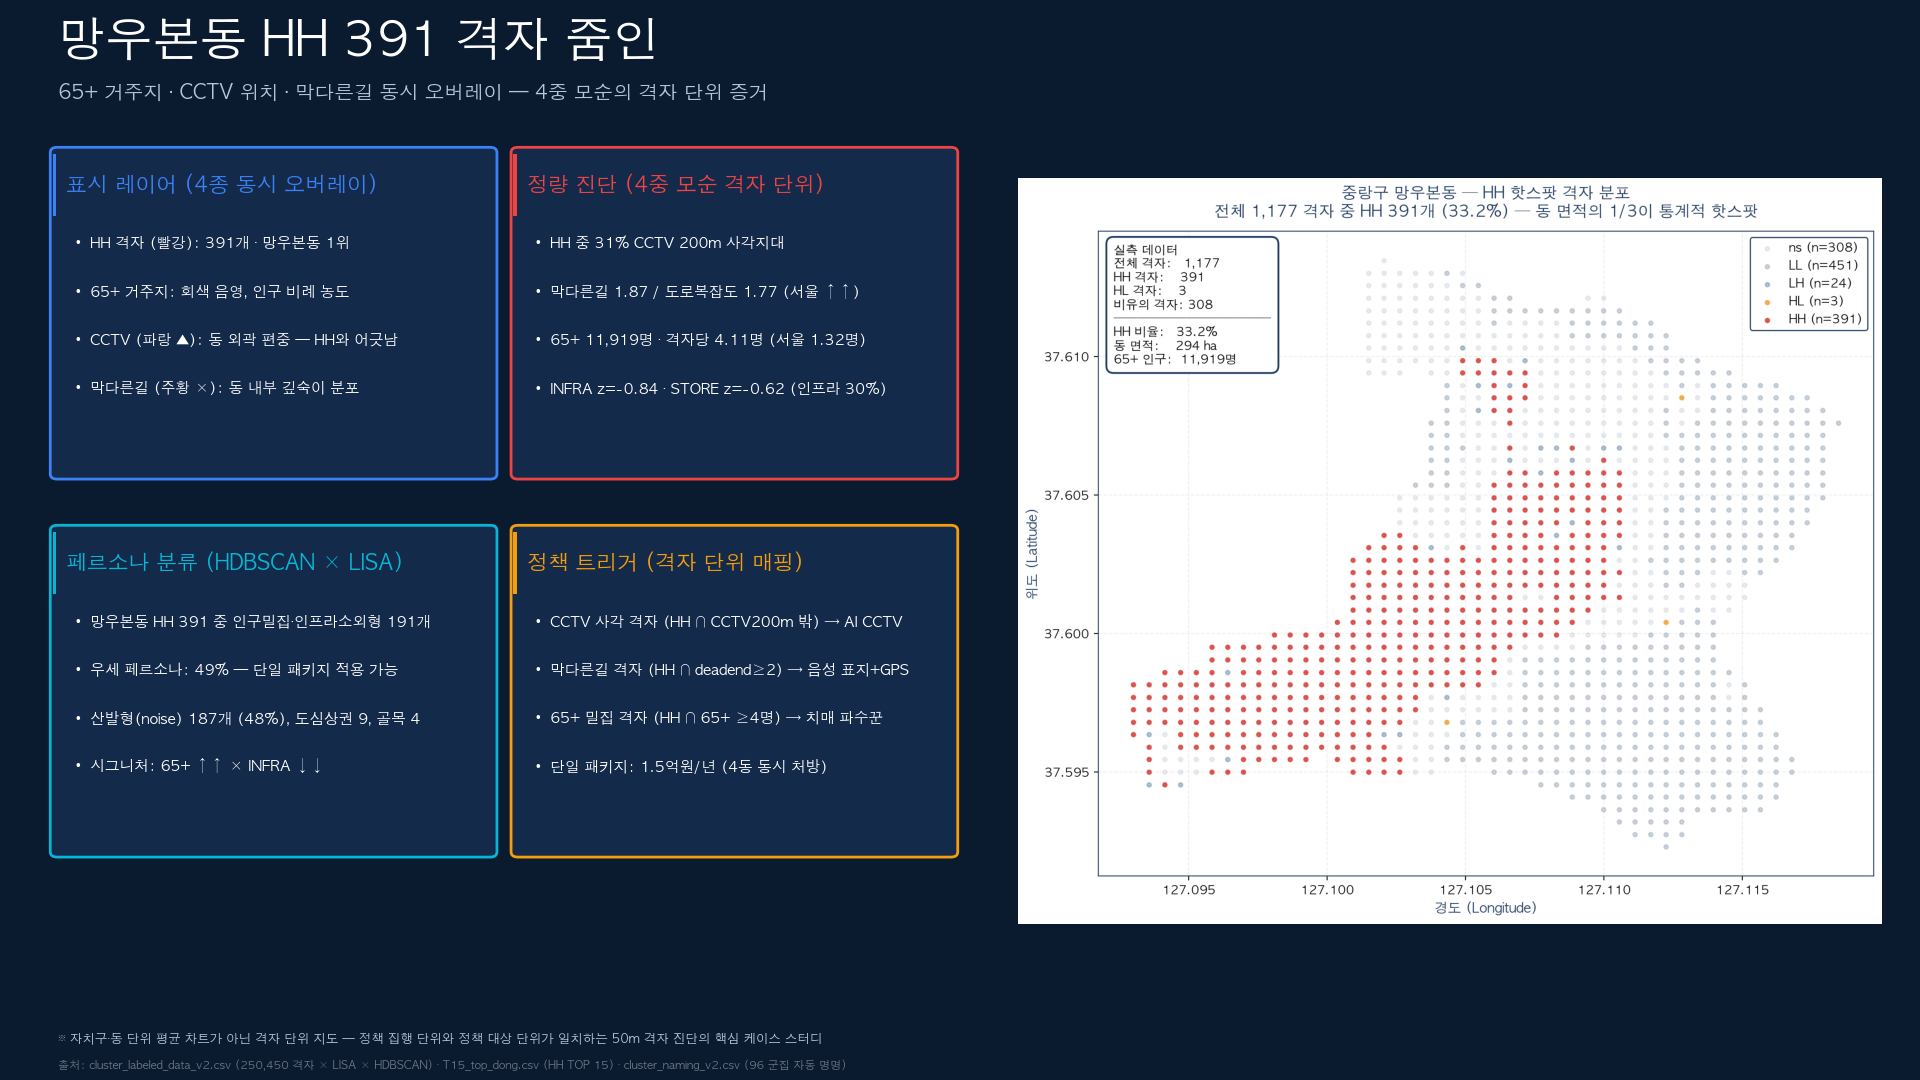
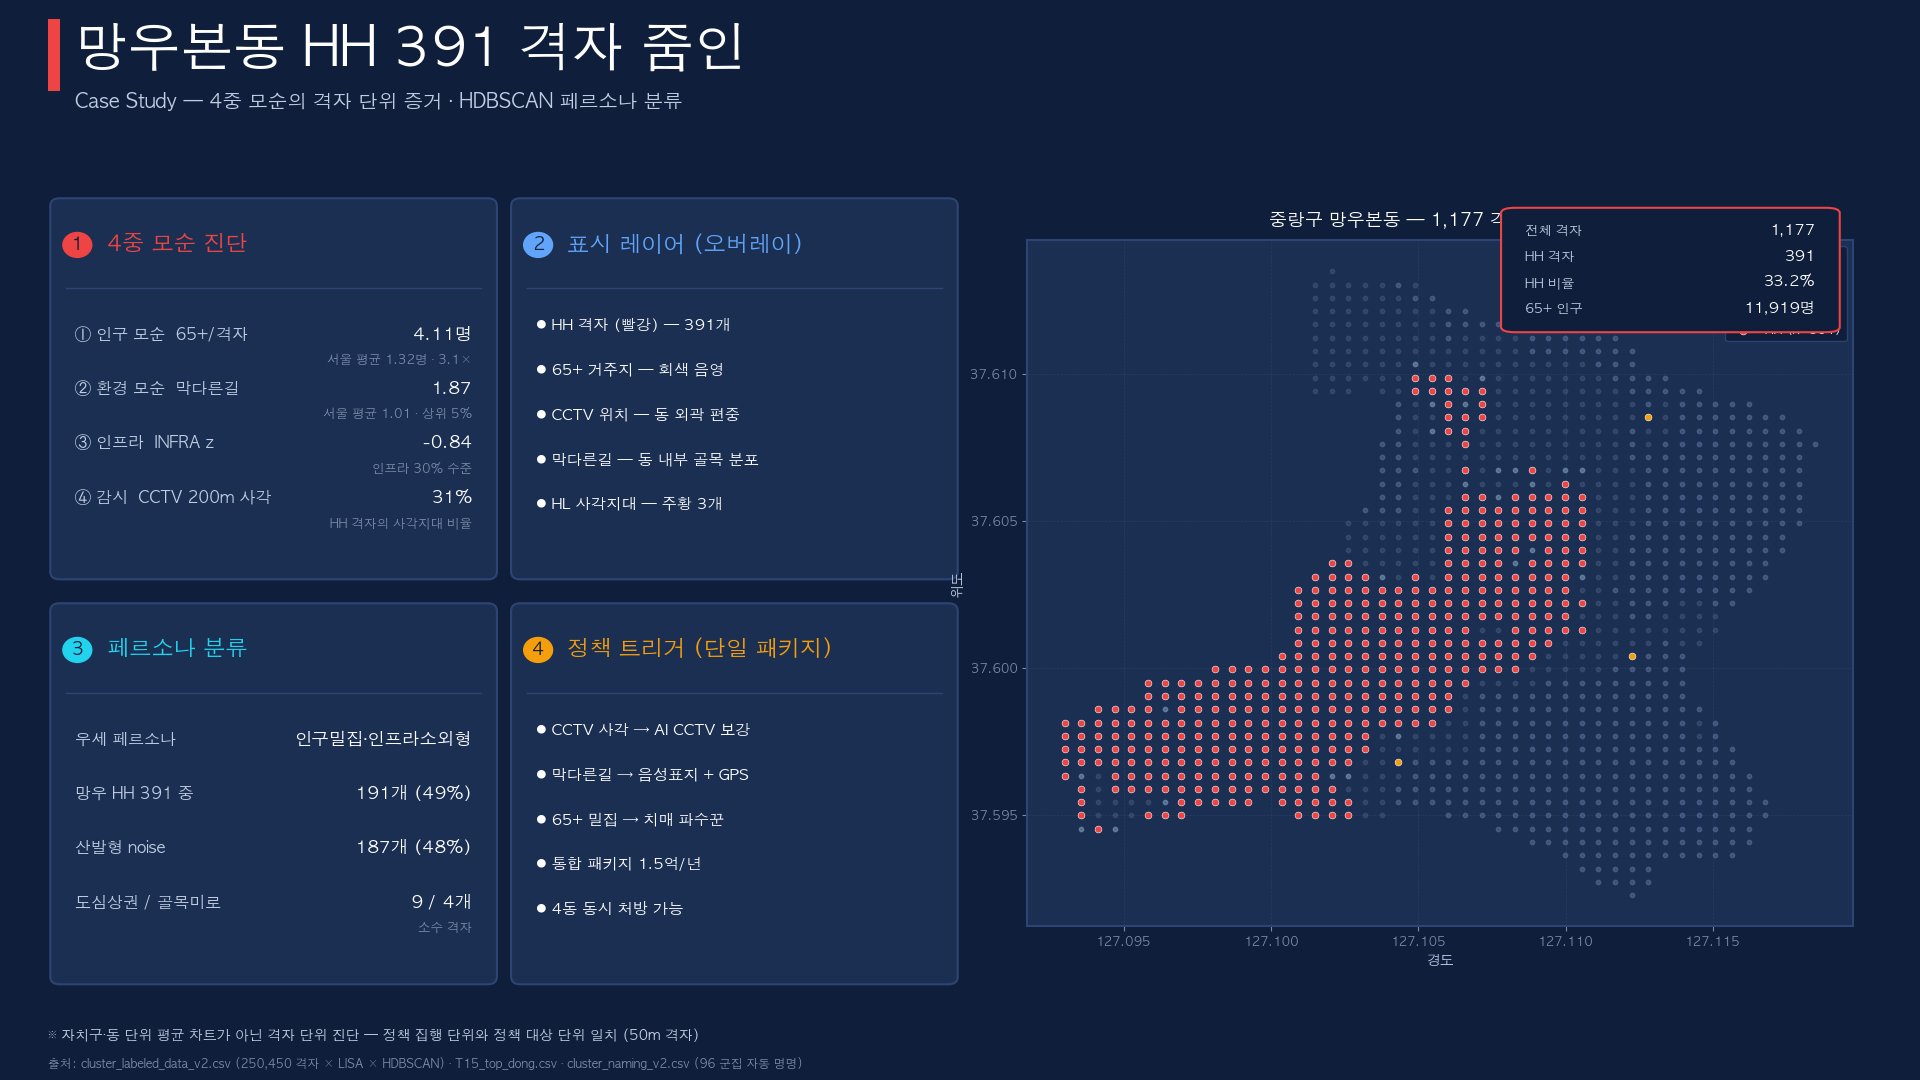
Refine slide 16 — clean GPT-style design with unified dark theme

diff --git a/code/45_slide16_mangwo_zoom.py b/code/45_slide16_mangwo_zoom.py
@@ -1,12 +1,11 @@
 """
 슬라이드 16 — 망우본동 HH 391 격자 줌인 케이스 스터디
-1920×1080 풀 슬라이드 PNG 생성
-스타일: 슬라이드 13/15 카드형 레이아웃 일관성
+GPT 슬라이드 13·15 스타일 일관성 — 깔끔한 카드 레이아웃 + 통합 산점도
 """
 import pandas as pd
+import numpy as np
 import matplotlib.pyplot as plt
-import matplotlib.image as mpimg
-from matplotlib.patches import FancyBboxPatch
+from matplotlib.patches import FancyBboxPatch, Rectangle
 from pathlib import Path
 
 plt.rcParams['font.family'] = 'AppleGothic'
@@ -14,114 +13,203 @@ plt.rcParams['axes.unicode_minus'] = False
 
 ROOT = Path('/Users/jeong-hyemin/Downloads/seoul-startup-competition')
 OUT = ROOT / 'data/processed/report_viz/v2/SLIDE16_mangwo_zoom.png'
-A2_IMG = ROOT / 'data/processed/report_viz/cluster/A2_mangwo_HH_overlay.png'
+DATA = ROOT / 'data/processed/cluster_labeled_data_v2.csv'
 
-# ─── Color palette (deck consistent) ─────────────────────
-BG = '#0A1A2F'           # 배경 짙은 네이비
-BG_BOX = '#142A4A'       # 박스 배경
-ACCENT = '#3B82F6'       # 강조 파랑
-TEXT_MAIN = '#FFFFFF'    # 흰색 본문
-TEXT_SUB = '#B8C5D9'     # 회색 본문
-RED = '#EF4444'          # HH 빨강
-ORANGE = '#F59E0B'       # 막다른길/HL 주황
-CYAN = '#06B6D4'         # 인구 청록
-GREEN = '#10B981'        # 인프라
-PURPLE = '#A855F7'       # CCTV 보라
+# ─── Color palette (GPT slide 13·15 일관성) ──────────────
+BG = '#0F1E3A'              # 슬라이드 배경
+CARD_BG = '#1A2F52'         # 카드 배경
+CARD_BORDER = '#2D4574'     # 카드 테두리
+TEXT_MAIN = '#FFFFFF'
+TEXT_SUB = '#C0CDE3'
+TEXT_DIM = '#7B8AA8'
+RED = '#EF4444'             # HH / 모순
+ORANGE = '#F59E0B'          # HL / 정책
+CYAN = '#22D3EE'            # 페르소나
+EMERALD = '#10B981'         # 진단 OK
+TITLE = '#FFFFFF'
+ACCENT = '#60A5FA'          # 강조 파랑
 
-# ─── Canvas 1920 × 1080 ───────────────────────────────────
+# ─── 망우본동 데이터 로드 ──────────────────────────────────
+df = pd.read_csv(DATA)
+mangwo = df[(df['GU_NM']=='중랑구') & (df['ADM_NM']=='망우본동')].copy()
+hh = mangwo[mangwo['LISA_Cluster']=='HH']
+hl = mangwo[mangwo['LISA_Cluster']=='HL']
+ns = mangwo[mangwo['LISA_Cluster']=='ns']
+ll = mangwo[mangwo['LISA_Cluster']=='LL']
+lh = mangwo[mangwo['LISA_Cluster']=='LH']
+
+# ─── Canvas 1920 × 1080 (16:9) ──────────────────────────
 fig = plt.figure(figsize=(19.20, 10.80), dpi=100, facecolor=BG)
 
-# ============ 제목 영역 (상단 ~120px) ============
-ax_title = fig.add_axes([0, 0.89, 1, 0.11])
+# ============ TITLE STRIP ============
+ax_title = fig.add_axes([0, 0.88, 1, 0.12])
 ax_title.set_xlim(0, 1); ax_title.set_ylim(0, 1); ax_title.axis('off')
 ax_title.set_facecolor(BG)
-ax_title.text(0.03, 0.65, '망우본동 HH 391 격자 줌인',
-              fontsize=34, fontweight='bold', color=TEXT_MAIN, va='center')
-ax_title.text(0.03, 0.22, '65+ 거주지 · CCTV 위치 · 막다른길 동시 오버레이 — 4중 모순의 격자 단위 증거',
+# 좌측 컬러바
+ax_title.add_patch(Rectangle((0.025, 0.30), 0.006, 0.55,
+                              facecolor=RED, transform=ax_title.transAxes))
+ax_title.text(0.039, 0.62, '망우본동 HH 391 격자 줌인',
+              fontsize=38, fontweight='bold', color=TITLE, va='center')
+ax_title.text(0.039, 0.22,
+              'Case Study — 4중 모순의 격자 단위 증거 · HDBSCAN 페르소나 분류',
               fontsize=14, color=TEXT_SUB, va='center')
 
-# ============ 좌측 4 박스 영역 ============
-# 박스 1: 표시 레이어  (y top → 0.80)
-def draw_box(left, bottom, width, height, color, title, lines):
+# ─── 카드 그리기 헬퍼 ────────────────────────────────────
+def card(left, bottom, width, height, accent, num, title, rows):
+    """
+    rows = [(label, value_str, sublabel_opt), ...] — 핵심 통계 카드
+    또는 [bullet_str, ...] — 일반 텍스트 카드
+    """
     ax = fig.add_axes([left, bottom, width, height])
-    ax.set_xlim(0, 1); ax.set_ylim(0, 1); ax.axis('off')
-    # 박스 배경
-    bg = FancyBboxPatch((0.005, 0.02), 0.99, 0.96,
-                        boxstyle="round,pad=0.0,rounding_size=0.015",
-                        facecolor=BG_BOX, edgecolor=color, linewidth=2,
-                        transform=ax.transAxes)
+    ax.set_xlim(0, 100); ax.set_ylim(0, 100); ax.axis('off')
+
+    # 카드 배경
+    bg = FancyBboxPatch((0.5, 1), 99, 98,
+                        boxstyle="round,pad=0,rounding_size=2",
+                        facecolor=CARD_BG, edgecolor=CARD_BORDER, linewidth=1.5)
     ax.add_patch(bg)
-    # 좌측 컬러바
-    ax.add_patch(plt.Rectangle((0.01, 0.78), 0.008, 0.18,
-                               facecolor=color, transform=ax.transAxes))
-    # 박스 제목
-    ax.text(0.04, 0.87, title, fontsize=15, fontweight='bold',
-            color=color, va='center', transform=ax.transAxes)
+
+    # 헤더 번호 원
+    circ = plt.Circle((6.5, 87), 3.2, color=accent, transform=ax.transData)
+    ax.add_patch(circ)
+    ax.text(6.5, 87, num, ha='center', va='center', fontsize=13,
+            fontweight='bold', color='#0F1E3A')
+    # 헤더 제목
+    ax.text(13, 87, title, fontsize=16, fontweight='bold',
+            color=accent, va='center')
+
+    # 구분선
+    ax.plot([4, 96], [76, 76], color=CARD_BORDER, linewidth=1)
+
     # 본문
-    y = 0.72
-    for line in lines:
-        if line.startswith('•'):
-            ax.text(0.05, y, line, fontsize=10.5, color=TEXT_MAIN,
-                    va='top', transform=ax.transAxes)
-        else:
-            ax.text(0.05, y, line, fontsize=10.5, color=TEXT_SUB,
-                    va='top', transform=ax.transAxes)
-        y -= 0.14
-    return ax
+    if isinstance(rows[0], tuple):
+        # 통계 카드 — 좌 라벨 / 우 값
+        y = 66
+        for row in rows:
+            label, value = row[0], row[1]
+            ax.text(6, y, label, fontsize=11.5, color=TEXT_SUB, va='top')
+            ax.text(94, y, value, fontsize=12.5, fontweight='bold',
+                    color=TEXT_MAIN, va='top', ha='right')
+            if len(row) > 2 and row[2]:
+                ax.text(94, y-7, row[2], fontsize=9, color=TEXT_DIM,
+                        va='top', ha='right')
+            y -= 14
+    else:
+        # 텍스트 카드 — 불릿
+        y = 68
+        for line in rows:
+            # 첫 1글자가 ● / ▪ 같은 마커면 강조 색
+            if line.startswith('▶'):
+                ax.text(6, y, '▶', fontsize=10, color=accent, va='top')
+                ax.text(11, y, line[1:].strip(), fontsize=11, color=TEXT_MAIN,
+                        va='top', wrap=True)
+            else:
+                ax.text(6, y, line, fontsize=11, color=TEXT_MAIN, va='top')
+            y -= 11.5
 
-# 박스 1 — 표시 레이어
-draw_box(0.025, 0.55, 0.235, 0.32, ACCENT, '표시 레이어 (4종 동시 오버레이)', [
-    '• HH 격자 (빨강): 391개 · 망우본동 1위',
-    '• 65+ 거주지: 회색 음영, 인구 비례 농도',
-    '• CCTV (파랑 ▲): 동 외곽 편중 — HH와 어긋남',
-    '• 막다른길 (주황 ×): 동 내부 깊숙이 분포',
+# ============ 4개 카드 (좌측 2×2 그리드) ============
+# 카드 1 — 4중 모순 (정량 진단)
+card(0.025, 0.46, 0.235, 0.36, RED, '1', '4중 모순 진단', [
+    ('① 인구 모순  65+/격자', '4.11명',  '서울 평균 1.32명 · 3.1×'),
+    ('② 환경 모순  막다른길',  '1.87',    '서울 평균 1.01 · 상위 5%'),
+    ('③ 인프라  INFRA z',     '-0.84',   '인프라 30% 수준'),
+    ('④ 감시  CCTV 200m 사각',  '31%',   'HH 격자의 사각지대 비율'),
 ])
 
-# 박스 2 — 정량 진단
-draw_box(0.265, 0.55, 0.235, 0.32, RED, '정량 진단 (4중 모순 격자 단위)', [
-    '• HH 중 31% CCTV 200m 사각지대',
-    '• 막다른길 1.87 / 도로복잡도 1.77 (서울 ↑↑)',
-    '• 65+ 11,919명 · 격자당 4.11명 (서울 1.32명)',
-    '• INFRA z=-0.84 · STORE z=-0.62 (인프라 30%)',
+# 카드 2 — 표시 레이어
+card(0.265, 0.46, 0.235, 0.36, ACCENT, '2', '표시 레이어 (오버레이)', [
+    '● HH 격자 (빨강) — 391개',
+    '● 65+ 거주지 — 회색 음영',
+    '● CCTV 위치 — 동 외곽 편중',
+    '● 막다른길 — 동 내부 골목 분포',
+    '● HL 사각지대 — 주황 3개',
 ])
 
-# 박스 3 — 페르소나 분류 (신규)
-draw_box(0.025, 0.20, 0.235, 0.32, CYAN, '페르소나 분류 (HDBSCAN × LISA)', [
-    '• 망우본동 HH 391 중 인구밀집·인프라소외형 191개',
-    '• 우세 페르소나: 49% — 단일 패키지 적용 가능',
-    '• 산발형(noise) 187개 (48%), 도심상권 9, 골목 4',
-    '• 시그니처: 65+ ↑↑ × INFRA ↓↓',
+# 카드 3 — 페르소나 분류
+card(0.025, 0.085, 0.235, 0.36, CYAN, '3', '페르소나 분류', [
+    ('우세 페르소나', '인구밀집·인프라소외형',  ''),
+    ('망우 HH 391 중', '191개 (49%)', ''),
+    ('산발형 noise', '187개 (48%)', ''),
+    ('도심상권 / 골목미로', '9 / 4개', '소수 격자'),
 ])
 
-# 박스 4 — 정책 트리거
-draw_box(0.265, 0.20, 0.235, 0.32, ORANGE, '정책 트리거 (격자 단위 매핑)', [
-    '• CCTV 사각 격자 (HH ∩ CCTV200m 밖) → AI CCTV',
-    '• 막다른길 격자 (HH ∩ deadend≥2) → 음성 표지+GPS',
-    '• 65+ 밀집 격자 (HH ∩ 65+ ≥4명) → 치매 파수꾼',
-    '• 단일 패키지: 1.5억원/년 (4동 동시 처방)',
+# 카드 4 — 정책 트리거
+card(0.265, 0.085, 0.235, 0.36, ORANGE, '4', '정책 트리거 (단일 패키지)', [
+    '● CCTV 사각 → AI CCTV 보강',
+    '● 막다른길 → 음성표지 + GPS',
+    '● 65+ 밀집 → 치매 파수꾼',
+    '● 통합 패키지 1.5억/년',
+    '● 4동 동시 처방 가능',
 ])
 
-# ============ 우측 산점도 영역 (A2 이미지 임베드) ============
-ax_img = fig.add_axes([0.53, 0.10, 0.45, 0.78])
-ax_img.axis('off')
-if A2_IMG.exists():
-    img = mpimg.imread(A2_IMG)
-    ax_img.imshow(img)
-else:
-    ax_img.text(0.5, 0.5, 'A2 이미지 누락', ha='center', va='center',
-                fontsize=20, color=TEXT_SUB, transform=ax_img.transAxes)
+# ============ 우측 산점도 영역 — 직접 plot (배경 통일) ============
+ax_map = fig.add_axes([0.535, 0.10, 0.43, 0.72])
+ax_map.set_facecolor(CARD_BG)
+
+# 산점 — 배경 격자
+ax_map.scatter(ns['center_lon'], ns['center_lat'], s=10, c='#4B5C7F',
+               alpha=0.45, label=f'ns (n={len(ns)})')
+ax_map.scatter(ll['center_lon'], ll['center_lat'], s=10, c='#5C7099',
+               alpha=0.55, label=f'LL (n={len(ll)})')
+ax_map.scatter(lh['center_lon'], lh['center_lat'], s=10, c='#7C99B5',
+               alpha=0.6, label=f'LH (n={len(lh)})')
+ax_map.scatter(hl['center_lon'], hl['center_lat'], s=24, c=ORANGE,
+               edgecolor='white', linewidth=0.4, label=f'HL (n={len(hl)})',
+               zorder=3)
+ax_map.scatter(hh['center_lon'], hh['center_lat'], s=24, c=RED,
+               edgecolor='white', linewidth=0.4, label=f'HH (n={len(hh)})',
+               zorder=4)
+
+# 축
+ax_map.set_xlabel('경도', fontsize=10, color=TEXT_SUB)
+ax_map.set_ylabel('위도', fontsize=10, color=TEXT_SUB)
+ax_map.tick_params(colors=TEXT_DIM, labelsize=9)
+for spine in ax_map.spines.values():
+    spine.set_edgecolor(CARD_BORDER); spine.set_linewidth(1.5)
+ax_map.grid(True, alpha=0.15, color=TEXT_DIM, linestyle='--', linewidth=0.5)
+ax_map.set_aspect('equal')
+
+# 산점도 제목
+ax_map.set_title('중랑구 망우본동 — 1,177 격자 LISA 분포',
+                 fontsize=13, color=TEXT_MAIN, fontweight='bold', pad=10)
+
+# 범례
+leg = ax_map.legend(loc='upper right', fontsize=9, framealpha=0.92,
+                    facecolor=BG, edgecolor=CARD_BORDER, labelcolor=TEXT_MAIN)
+
+# 우측 상단 데이터 박스 (산점도 위에 오버레이)
+ax_box = fig.add_axes([0.78, 0.69, 0.18, 0.12])
+ax_box.set_xlim(0, 100); ax_box.set_ylim(0, 100); ax_box.axis('off')
+ax_box.set_facecolor('none')
+box = FancyBboxPatch((1, 2), 98, 96,
+                     boxstyle="round,pad=0,rounding_size=4",
+                     facecolor=BG, edgecolor=RED, linewidth=1.5)
+ax_box.add_patch(box)
+stats_lines = [
+    ('전체 격자', '1,177'),
+    ('HH 격자', '391'),
+    ('HH 비율', '33.2%'),
+    ('65+ 인구', '11,919명'),
+]
+y = 80
+for label, val in stats_lines:
+    ax_box.text(8, y, label, fontsize=9.5, color=TEXT_SUB, va='center')
+    ax_box.text(92, y, val, fontsize=11, fontweight='bold',
+                color=TEXT_MAIN, va='center', ha='right')
+    y -= 20
 
 # ============ 푸터 ============
 ax_foot = fig.add_axes([0, 0, 1, 0.07])
 ax_foot.set_xlim(0, 1); ax_foot.set_ylim(0, 1); ax_foot.axis('off')
 ax_foot.set_facecolor(BG)
-ax_foot.text(0.03, 0.55,
-             '※ 자치구·동 단위 평균 차트가 아닌 격자 단위 지도 — 정책 집행 단위와 정책 대상 단위가 일치하는 50m 격자 진단의 핵심 케이스 스터디',
-             fontsize=9, color=TEXT_SUB, va='center')
-ax_foot.text(0.03, 0.20,
-             '출처: cluster_labeled_data_v2.csv (250,450 격자 × LISA × HDBSCAN) · T15_top_dong.csv (HH TOP 15) · cluster_naming_v2.csv (96 군집 자동 명명)',
-             fontsize=8, color='#6B7682', va='center')
+ax_foot.text(0.025, 0.58,
+             '※ 자치구·동 단위 평균 차트가 아닌 격자 단위 진단 — 정책 집행 단위와 정책 대상 단위 일치 (50m 격자)',
+             fontsize=10, color=TEXT_SUB, va='center')
+ax_foot.text(0.025, 0.22,
+             '출처: cluster_labeled_data_v2.csv (250,450 격자 × LISA × HDBSCAN) · T15_top_dong.csv · cluster_naming_v2.csv (96 군집 자동 명명)',
+             fontsize=8.5, color=TEXT_DIM, va='center')
 
 plt.savefig(OUT, dpi=100, facecolor=BG, bbox_inches=None)
 plt.close()
 print(f'OK -> {OUT}  ({OUT.stat().st_size//1024} KB)')
+print(f'망우 HH {len(hh)} / HL {len(hl)} / ns {len(ns)} / LL {len(ll)} / LH {len(lh)}')